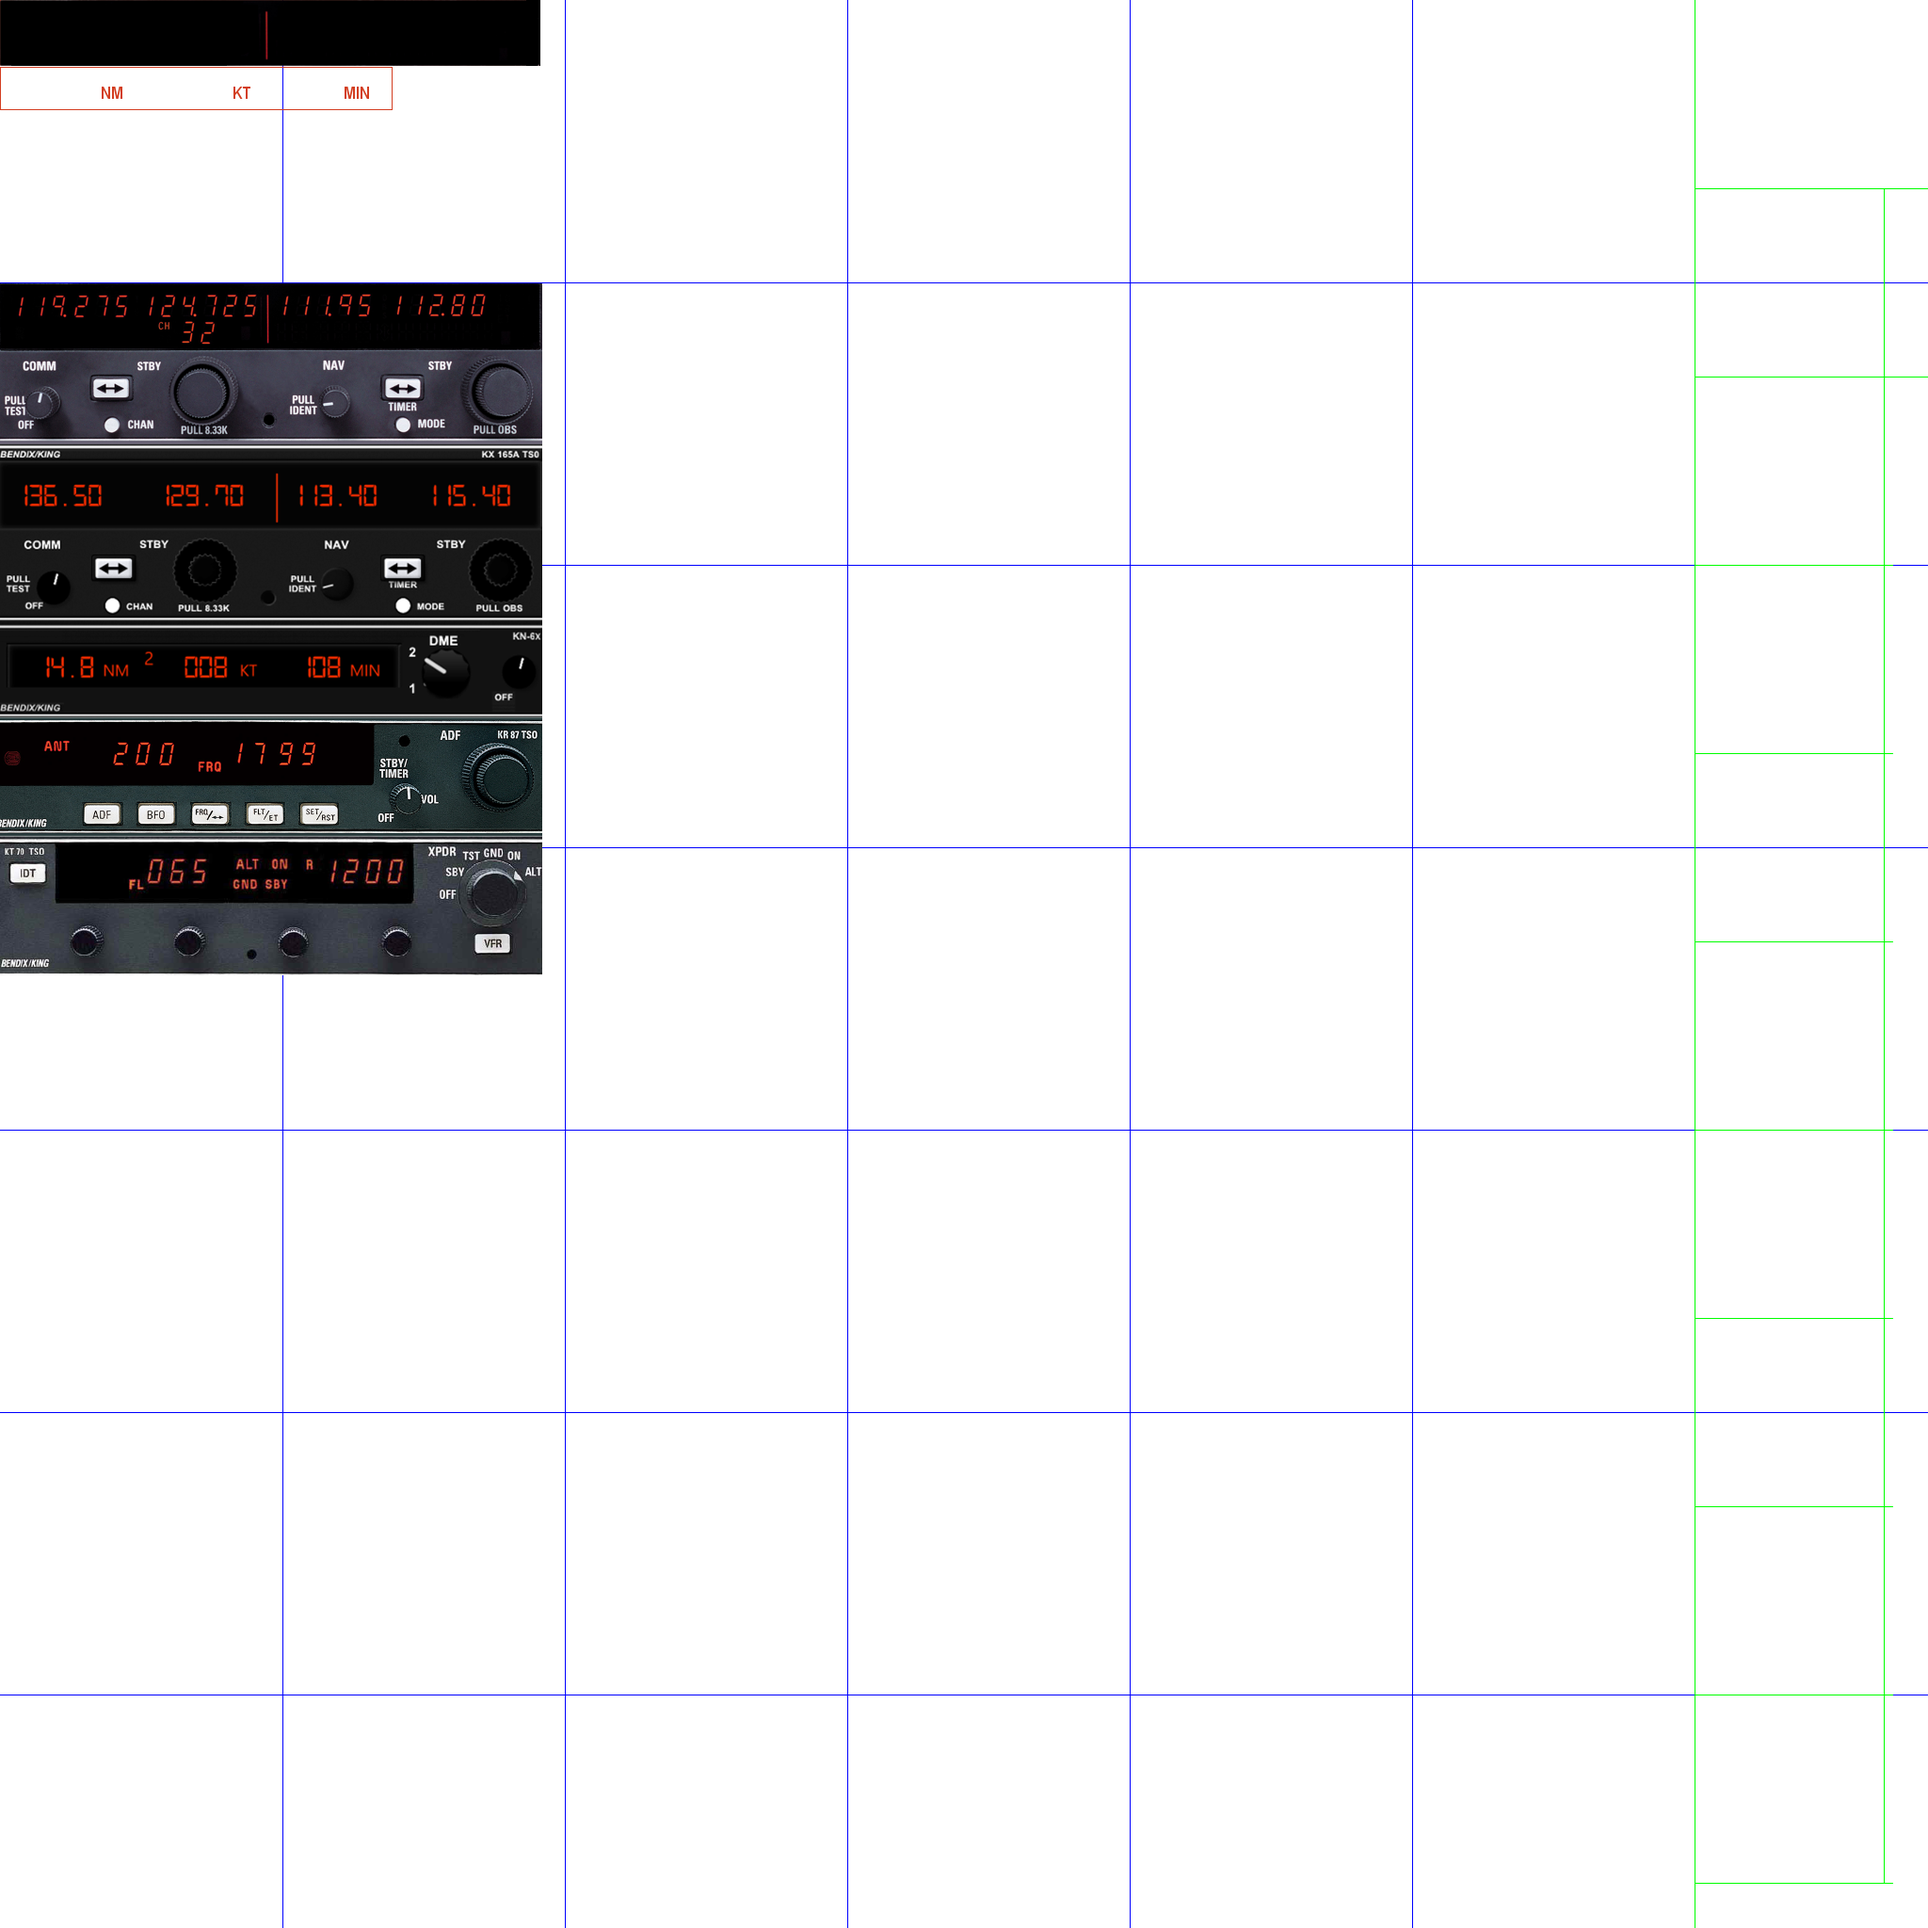
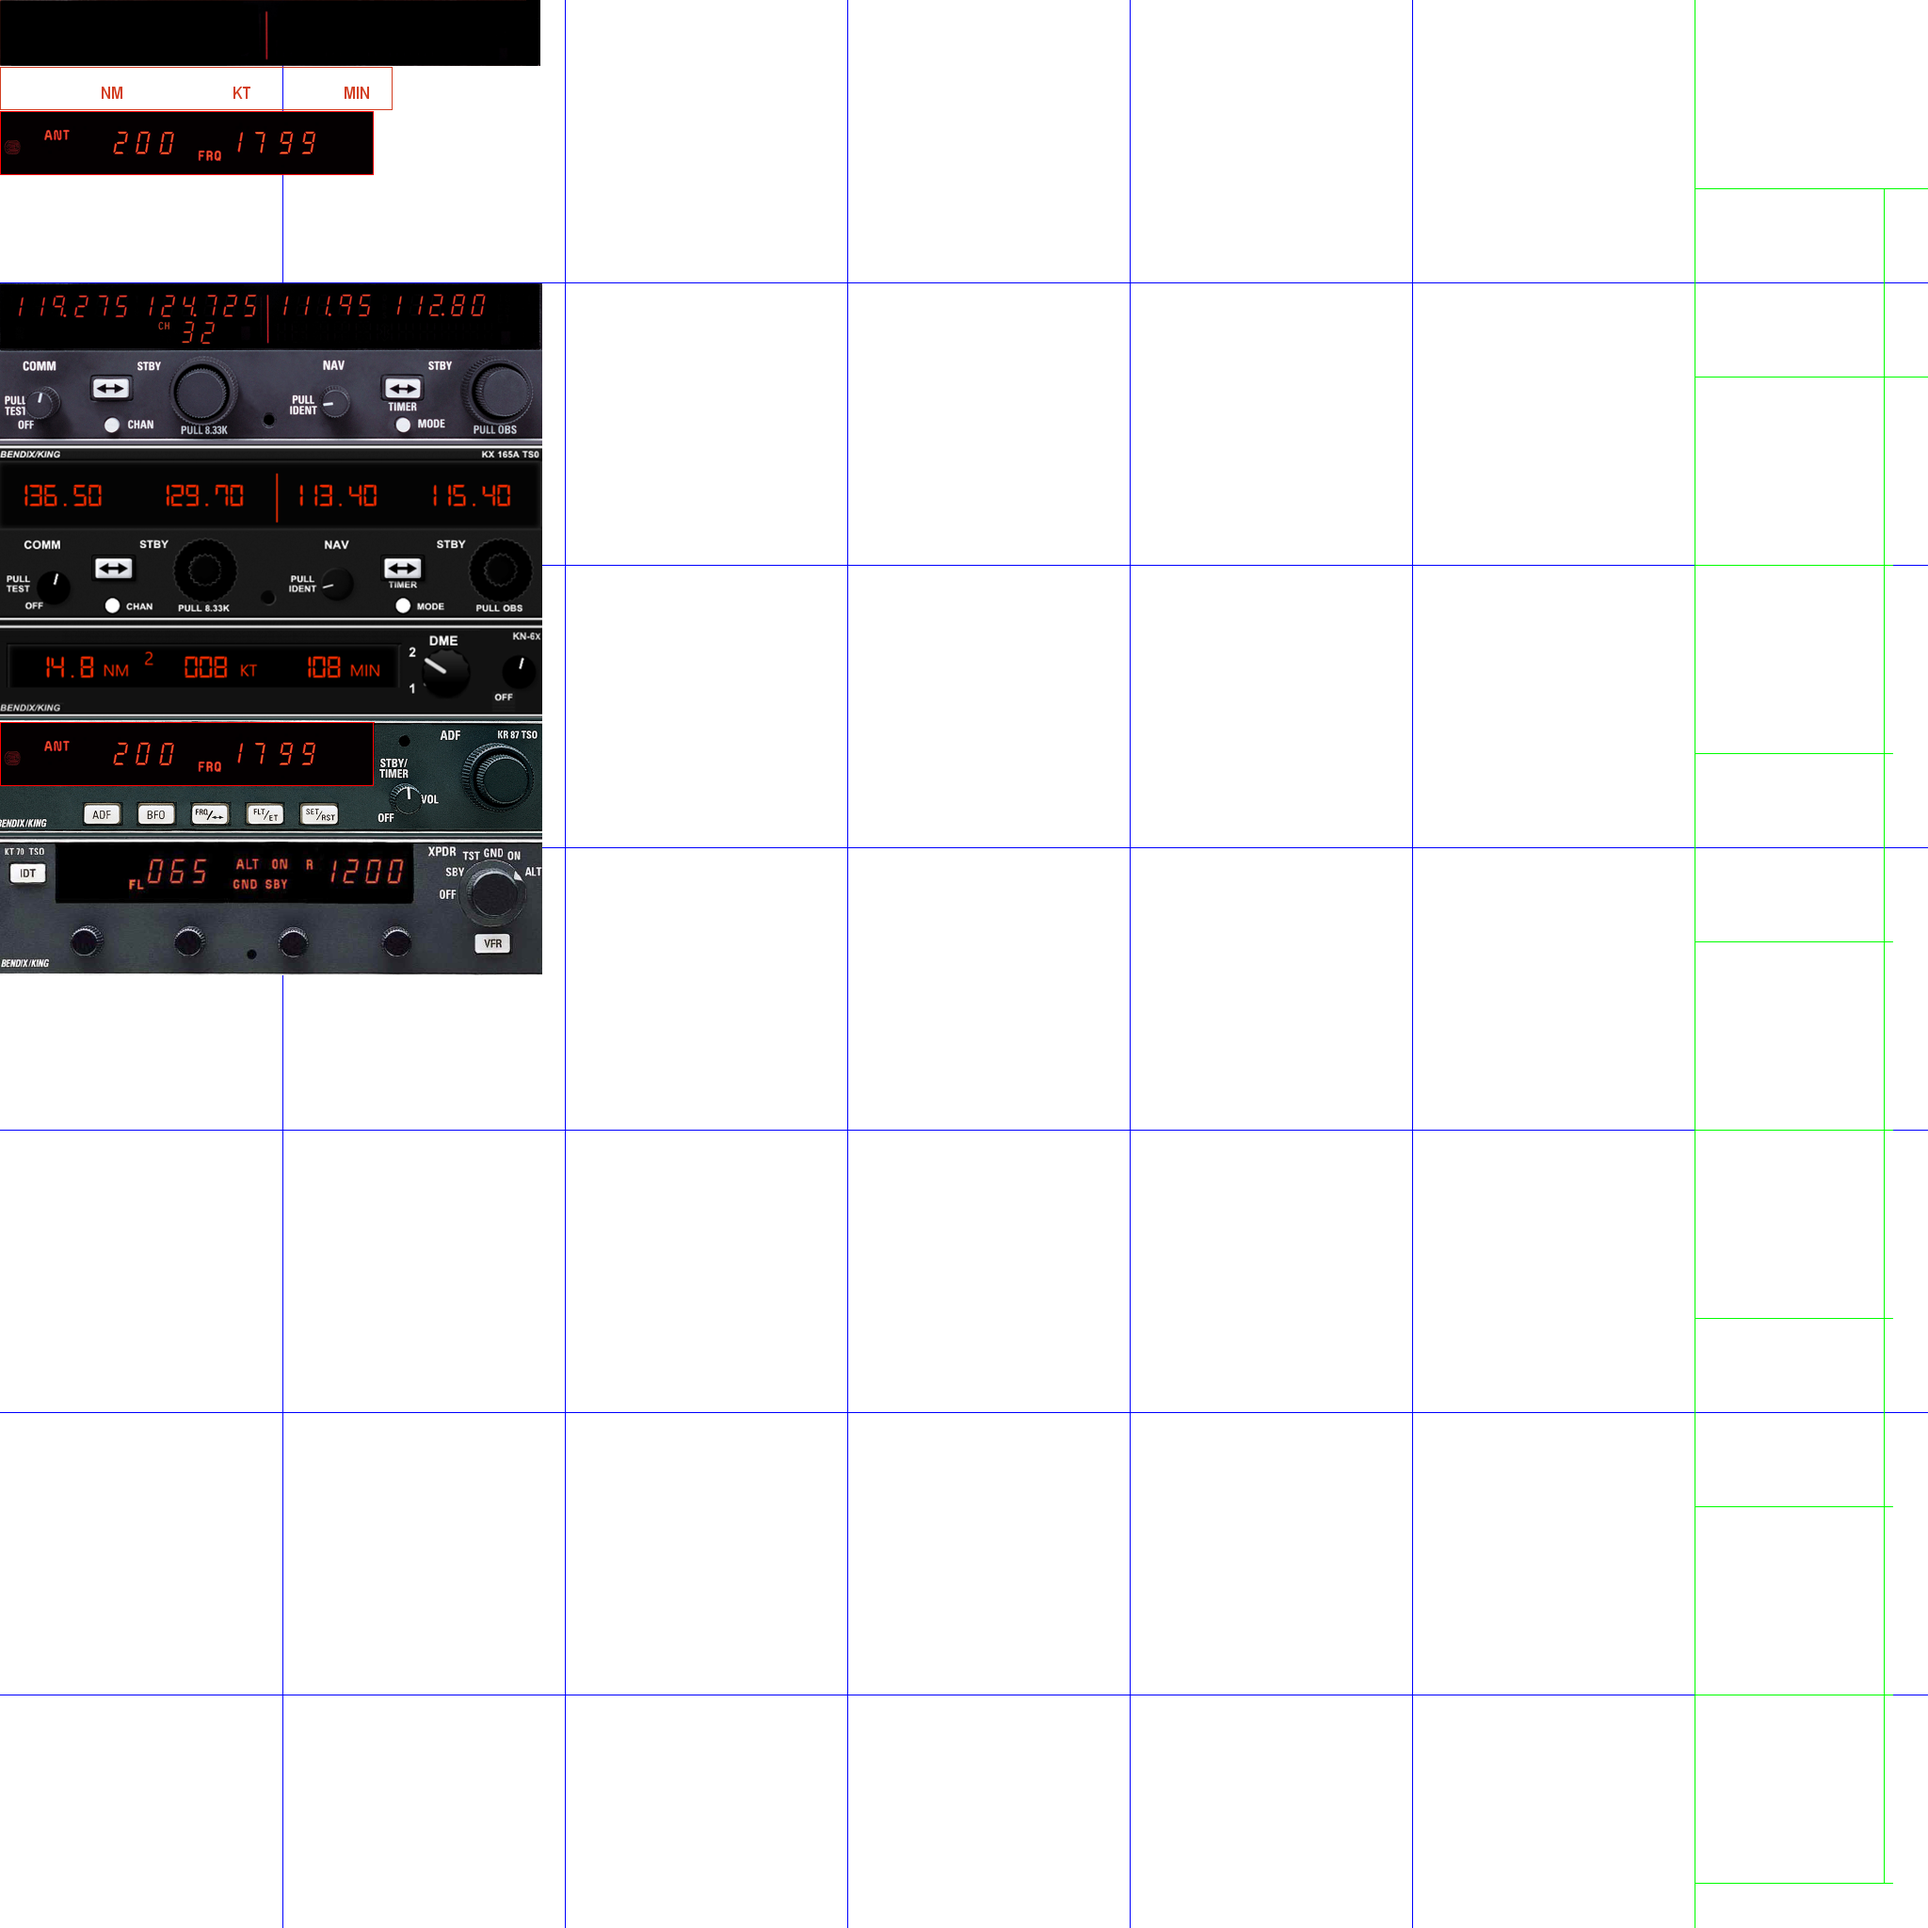
Adding ADF instrument

Changed region(s): [[0.0, 0.0312, 0.2188, 0.0938]]

diff --git a/instruments/BendixKing_ADF_KR87.py b/instruments/BendixKing_ADF_KR87.py
@@ -10,10 +10,10 @@ from lib.network import XPlaneUDPServer
 from lib.general import conversionFunctions
 
 
-class BK_DME_KN6X(graphics.Container):
+class BK_ADF_KR87(graphics.Container):
 	XPlaneDataDispatcher = None
 	
-	def __init__(self,position, size, XPlaneDataDispatcher, batchImageRenderer, texture, name = "BK_NAVCOMM_KX165A"):
+	def __init__(self,position, size, XPlaneDataDispatcher, batchImageRenderer, texture, name = "BK_ADF_KR87"):
 		graphics.Container.__init__(self,position, size, name)
 		
 		self.testMode = False
@@ -24,27 +24,29 @@ class BK_DME_KN6X(graphics.Container):
 		TXT_FMT_3DIG_PREC3 = '{:07.3f}'
 		
 		x_DME_txt 		= 10
-		x_DME_speed 	= 182
+		x_ADF_actFrequ 	= 125
 		x_DME_time 		= 302
-		y_frequencies 	= -20
+		y_frequencies 	= -18
 		#-------------------------------------------------------------------------------------------------
 		# Background 
 		#-------------------------------------------------------------------------------------------------
-		self.DME_BGD = graphics.ImagePanel(texture, batchImageRenderer, self.layer,(0,0),[417,46],[0,2048-117], "DME_BGD")
-		self.DME_BGD.resize((417,46))
-		self.addItem(self.DME_BGD, (208.5,0), False)
+		self.ADF_BGD = graphics.ImagePanel(texture, batchImageRenderer, self.layer,(0,0),[399,68],[0,2048-186], "ADF_BGD")
+		self.ADF_BGD.resize((399,68))
+		self.addItem(self.ADF_BGD, (199.5,0), False)
 		
+		# ADF Active Frequency text
+		self.ADF_ACT_FREQU_Text = graphics.TextField(fonts.DIGITAL_ITAL_MED_ORANGE)
+		self.ADF_ACT_FREQU_Text.setTextFormat('{:03.0f}')
+		self.ADF_ACT_FREQU_Text.setTextDataSource(self.XPlaneDataDispatcher,(101,0))
+		self.addItem(self.ADF_ACT_FREQU_Text, (x_ADF_actFrequ,y_frequencies), False)
+		
+		'''
 		# DME Distance text
-		self.DME_DIST_Text = graphics.TextField(fonts.DIGITAL_ITAL_MED_ORANGE)
+		#self.DME_DIST_Text = graphics.TextField(fonts.DIGITAL_ITAL_MED_ORANGE)
 		self.DME_DIST_Text.setTextFormat('{:05.1f}')
 		self.DME_DIST_Text.setTextDataSource(self.XPlaneDataDispatcher,(102,3))
 		self.addItem(self.DME_DIST_Text, (x_DME_txt,y_frequencies), False)
 		
-		# DME Speed text
-		self.DME_SPEED_Text = graphics.TextField(fonts.DIGITAL_ITAL_MED_ORANGE)
-		self.DME_SPEED_Text.setTextFormat('{:03.0f}')
-		self.DME_SPEED_Text.setTextDataSource(self.XPlaneDataDispatcher,(102,4))
-		self.addItem(self.DME_SPEED_Text, (x_DME_speed,y_frequencies), False)
 		
 		# DME time text
 		self.DME_TIME_Text = graphics.TextField(fonts.DIGITAL_ITAL_MED_ORANGE)
@@ -63,9 +65,10 @@ class BK_DME_KN6X(graphics.Container):
 		self.DME_NAV2_Indicator.setTextFormat('{:01.0f}')
 		self.DME_NAV2_Indicator.setText('2')
 		self.addItem(self.DME_NAV2_Indicator, (x_DME_txt+135,y_frequencies+20), False)
+		'''
 		
 	def draw(self):
-		powered = self.XPlaneDataDispatcher.getData(312,0)
+		'''powered = self.XPlaneDataDispatcher.getData(312,0)
 		if powered ==1.0 :
 			self.setVisible(True)
 			DME_found = self.XPlaneDataDispatcher.getData(102,2)
@@ -94,6 +97,6 @@ class BK_DME_KN6X(graphics.Container):
 			self.DME_SPEED_Text.setVisible(False)
 			self.DME_TIME_Text.setVisible(False)
 			
-			
-		super(BK_DME_KN6X,self).draw()
+		'''
+		super(BK_ADF_KR87,self).draw()
 

diff --git a/RadioStack.py b/RadioStack.py
@@ -11,6 +11,7 @@ def drawInstruments():
 	NAVCOMM_BK165_1.draw()
 	NAVCOMM_BK165_2.draw()
 	DME_KN6X.draw()
+	ADF_KR87.draw()
 	
 
 #********************************************************************************************
@@ -41,6 +42,7 @@ RadioStackTexture =	OpenGL3lib.GL_Texture("data/2048_Radio_Stack_text.png")
 NAVCOMM_BK165_1_POS = (50,600)
 NAVCOMM_BK165_2_POS = (50,500)
 DME_KN6X_POS = (50,400)
+BK_ADF_KR87_POS = (50,300)
 
 ALT_SIZE = (125,325)
 #------------------------------------------------------------------------------------------
@@ -48,6 +50,8 @@ ALT_SIZE = (125,325)
 #------------------------------------------------------------------------------------------
 from instruments import BendixKing_NAVCOMM_KX165A
 from instruments import BendixKing_DME_KN6X
+from instruments import BendixKing_ADF_KR87
+
 
 #------------------------------------------------------------------------------------------
 #	Initialise Instruments
@@ -58,6 +62,7 @@ batchImageRenderer = OpenGL3lib.GL_BatchImageRenderer(10) # create a batch rende
 NAVCOMM_BK165_1 = BendixKing_NAVCOMM_KX165A.BK_NAVCOMM_KX165A (NAVCOMM_BK165_1_POS, ALT_SIZE, XPlaneDataServer, batchImageRenderer, RadioStackTexture, 1 )
 NAVCOMM_BK165_2 = BendixKing_NAVCOMM_KX165A.BK_NAVCOMM_KX165A (NAVCOMM_BK165_2_POS, ALT_SIZE, XPlaneDataServer, batchImageRenderer, RadioStackTexture, 2 )
 DME_KN6X = BendixKing_DME_KN6X.BK_DME_KN6X (DME_KN6X_POS, ALT_SIZE, XPlaneDataServer, batchImageRenderer, RadioStackTexture )
+ADF_KR87 = BendixKing_ADF_KR87.BK_ADF_KR87 (BK_ADF_KR87_POS, ALT_SIZE, XPlaneDataServer, batchImageRenderer, RadioStackTexture )
 
 #sim/cockpit2/radios/actuators/DME_slave_source	int	y	enum	DME display selection of what NAV radio to display. 0 for Nav1, 1for Nav2.
 
